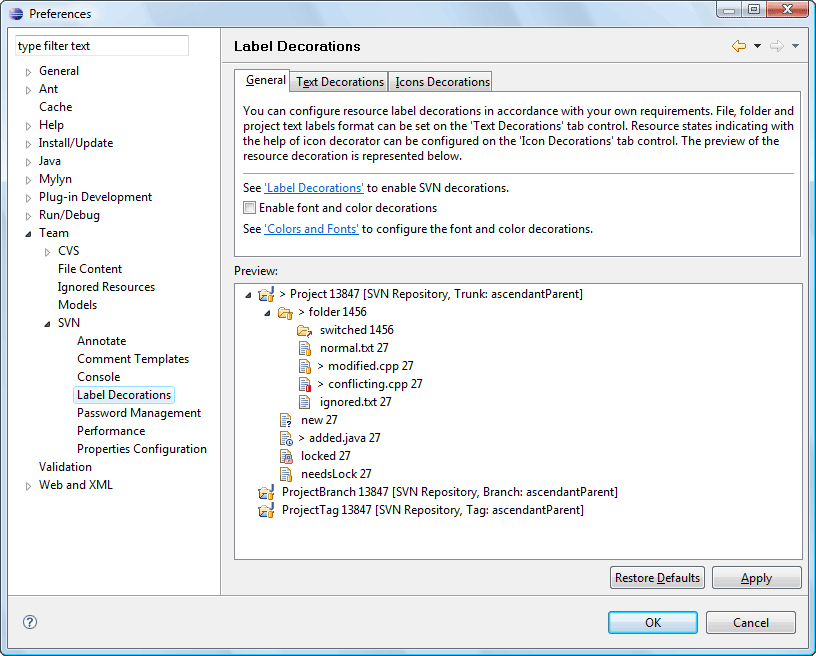
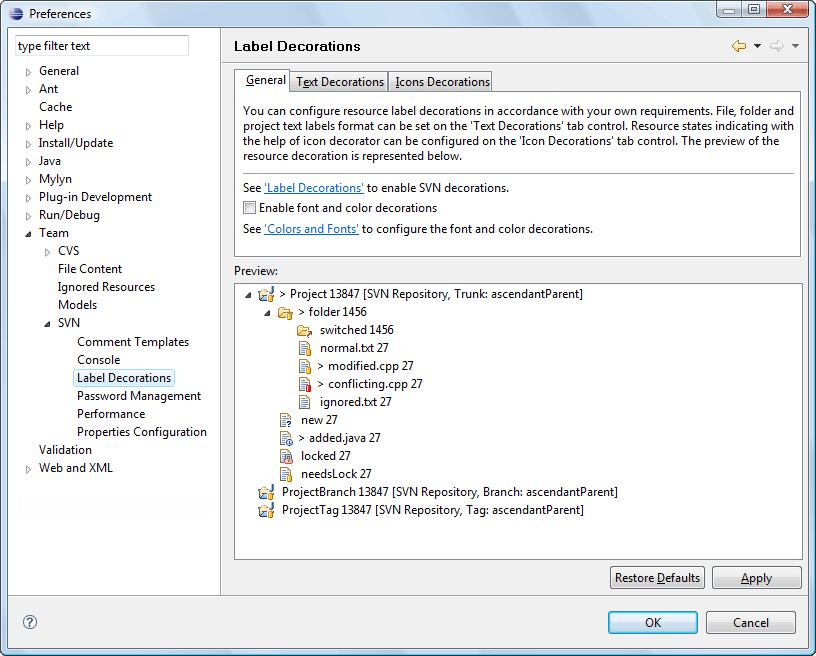
Update help according to plug-in changes (bug 225568) https://bugs.eclipse.org/bugs/show_bug.cgi?id=225568
The back slash is not supported in combined URLs (bug 228394)
https://bugs.eclipse.org/bugs/show_bug.cgi?id=228394

Changed region(s): [[0.0306, 0.5183, 0.2451, 0.7622]]

diff --git a/trunk/org.eclipse.team.svn.help/index.html b/trunk/org.eclipse.team.svn.help/index.html
@@ -47,7 +47,6 @@
 		<li><a href="prefs.html">Preferences</a>
 		<ul>
 		<li><a href="preferences/pref_svn.html">SVN</a></li>
-		<li><a href="preferences/pref_annotate.html">Annotate</a></li>
 		<li><a href="preferences/pref_comments.html">Comment Templates</a></li>
 		<li><a href="preferences/pref_console.html">Console</a></li>
 		<li><a href="preferences/pref_label_decors.html">Label Decorations</a></li>
@@ -72,7 +71,6 @@
 		<li><a href="teamSupport/merge_dialog.html">SVN Merge Dialog</a></li>
 		<li><a href="teamSupport/props_view.html">SVN Properties View</a></li>
 
-		<li><a href="teamSupport/annotation_view.html">SVN Annotation View</a></li>
 		<li><a href="teamSupport/svn_info.html">SVN Info</a></li>
 		<li><a href="teamSupport/svn_toolbar.html">SVN Toolbar</a></li>
 		<li><a href="teamSupport/svn_label_decor.html">SVN Label Decorations</a></li>

diff --git a/trunk/org.eclipse.team.svn.help/teamSupport.html b/trunk/org.eclipse.team.svn.help/teamSupport.html
@@ -114,8 +114,6 @@
 		<br/>
 		<a href="teamSupport/props_view.html">SVN Properties View</a>
 		<br/>
-		<a href="teamSupport/annotation_view.html">SVN Annotation View</a>
-		<br/>
 		<a href="teamSupport/svn_info.html">SVN Info</a>
 		<br/>
 		<a href="teamSupport/svn_toolbar.html">SVN Toolbar</a>

diff --git a/trunk/org.eclipse.team.svn.help/prefs.html b/trunk/org.eclipse.team.svn.help/prefs.html
@@ -31,8 +31,6 @@
 		<br/>
 		<a href="preferences/pref_svn.html">SVN</a>
 		<br/>
-		<a href="preferences/pref_annotate.html">Annotate</a>
-		<br/>
 		<a href="preferences/pref_comments.html">Comment Templates</a>
 		<br/>
 		<a href="preferences/pref_console.html">Console</a>

diff --git a/trunk/org.eclipse.team.svn.core/src/org/eclipse/team/svn/core/svnstorage/SVNRepositoryResource.java b/trunk/org.eclipse.team.svn.core/src/org/eclipse/team/svn/core/svnstorage/SVNRepositoryResource.java
@@ -22,6 +22,7 @@ import org.eclipse.team.svn.core.resource.IRepositoryFile;
 import org.eclipse.team.svn.core.resource.IRepositoryLocation;
 import org.eclipse.team.svn.core.resource.IRepositoryResource;
 import org.eclipse.team.svn.core.resource.IRepositoryRoot;
+import org.eclipse.team.svn.core.utility.SVNUtility;
 
 /**
  * SVN based representation of IRepositoryResource
@@ -122,7 +123,7 @@ public abstract class SVNRepositoryResource extends SVNRepositoryBase implements
 	}
 
 	public IRepositoryResource getParent() {
-		String parentUrl = this.getUrl();
+		String parentUrl = SVNUtility.normalizeURL(this.getUrl());
 		int idx = parentUrl.lastIndexOf('/');
 		if (idx != -1) {
 			parentUrl = parentUrl.substring(0, idx);
